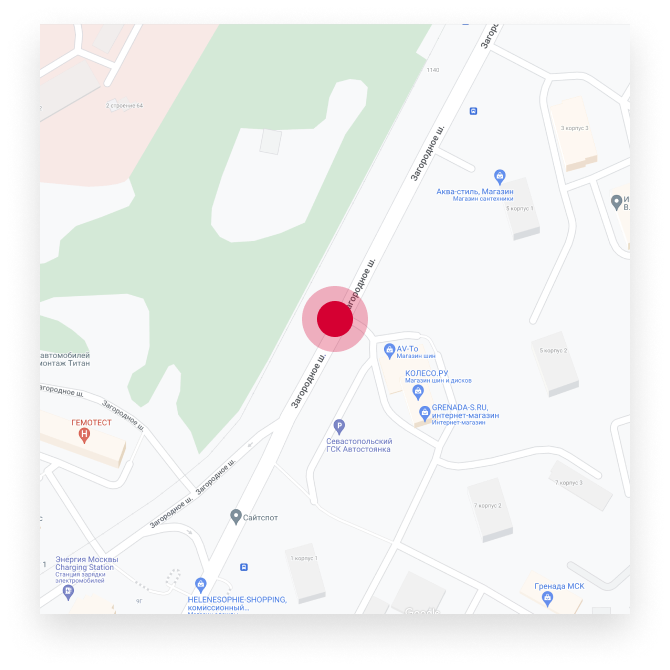
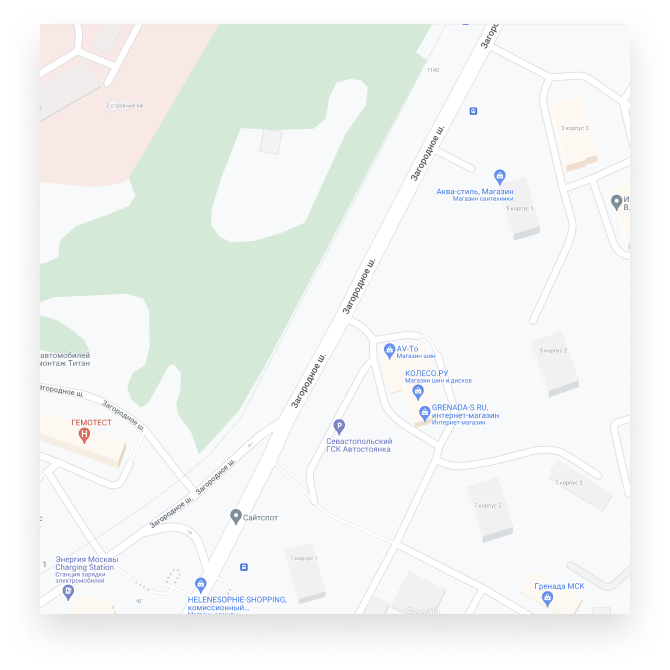
add

Changed region(s): [[0.4478, 0.4179, 0.5672, 0.5373]]

diff --git a/css/main.min.css b/css/main.min.css
@@ -1,1 +1,1 @@
-/*! modern-normalize v1.1.0 | MIT License | https://github.com/sindresorhus/modern-normalize */*,::after,::before{-webkit-box-sizing:border-box;box-sizing:border-box}html{-moz-tab-size:4;-o-tab-size:4;tab-size:4}html{line-height:1.15;-webkit-text-size-adjust:100%}body{margin:0}body{font-family:system-ui,-apple-system,"Segoe UI",Roboto,Helvetica,Arial,sans-serif,"Apple Color Emoji","Segoe UI Emoji"}hr{height:0;color:inherit}abbr[title]{-webkit-text-decoration:underline dotted;text-decoration:underline dotted}b,strong{font-weight:bolder}code,kbd,pre,samp{font-family:ui-monospace,SFMono-Regular,Consolas,"Liberation Mono",Menlo,monospace;font-size:1em}small{font-size:80%}sub,sup{font-size:75%;line-height:0;position:relative;vertical-align:baseline}sub{bottom:-0.25em}sup{top:-0.5em}table{text-indent:0;border-color:inherit}button,input,optgroup,select,textarea{font-family:inherit;font-size:100%;line-height:1.15;margin:0}button,select{text-transform:none}[type=button],[type=reset],[type=submit],button{-webkit-appearance:button}::-moz-focus-inner{border-style:none;padding:0}:-moz-focusring{outline:1px dotted ButtonText}:-moz-ui-invalid{box-shadow:none}legend{padding:0}progress{vertical-align:baseline}::-webkit-inner-spin-button,::-webkit-outer-spin-button{height:auto}[type=search]{-webkit-appearance:textfield;outline-offset:-2px}::-webkit-search-decoration{-webkit-appearance:none}::-webkit-file-upload-button{-webkit-appearance:button;font:inherit}summary{display:list-item}h1,h2,h3,h4,p{margin:0}a{text-decoration:none;color:currentColor}ul{margin:0;padding:0;list-style:none}img{display:block;width:100%;height:auto}:root{--main-font: "Roboto", sans-serif;--title-font: "Kanit", sans-serif;--color-title: rgba(213, 0, 50, 1);--cl-main-text: #202020;--cl-white: #ffffff;--bg-color-btn: #D50032;--bg-color-grey: #F7F7F7;--cl-card: rgba(0, 0, 0, 0.06)}body{font-family:var(--main-font);font-style:normal;font-weight:400;font-size:17px;line-height:1.2352941176}.section{padding:100px 0}.section__title{font-family:var(--title-font);font-size:48px;line-height:1.2916666667;letter-spacing:.04em;text-transform:uppercase;color:var(--cl-main-text)}.container__section--margin{margin-bottom:20px}.container__section--margin-bottom{margin-bottom:64px}.section__text{font-size:22px;line-height:1.3181818182;color:var(--cl-main-text);max-width:850px;margin-bottom:64px}.section--bg{max-width:1400px;margin:0 auto;background-color:var(--bg-color-grey);background-image:url(../img/sell/sell-bg.png);background-position:left calc(50% + 420px) top;background-repeat:no-repeat;background-size:contain}.section--offer-bg{max-width:1400px;margin:0 auto;background-image:url(../img/offer/offer.jpg);background-position:left calc(50% + 462px) top;background-repeat:no-repeat;background-size:contain}.section--form-bg{max-width:1400px;margin:0 auto;background-image:url(../img/form/bg.jpg);background-position:left calc(50% + 462px) top;background-repeat:no-repeat;background-size:contain;padding-bottom:220px}.section-form--padding{margin-bottom:32px}.section__text--padding{margin-bottom:52px}.container{width:1230px;padding:0 15px;margin:0 auto}.header__container{display:-webkit-box;display:-ms-flexbox;display:flex;-webkit-box-align:center;-ms-flex-align:center;align-items:center}.contacts{display:-webkit-box;display:-ms-flexbox;display:flex;-webkit-box-align:center;-ms-flex-align:center;align-items:center;gap:80px;margin-left:auto}.contants__tel{display:-webkit-box;display:-ms-flexbox;display:flex;-webkit-box-align:center;-ms-flex-align:center;align-items:center;gap:10px;font-family:var(--main-font);text-transform:uppercase;color:var(--cl-main-text)}.contants__tel::before{content:"";width:22px;height:22px;background-image:url("../img/icon/tel.svg");background-position:center;background-repeat:no-repeat}.logo{display:inline-block;padding:30px 0;color:var(--cl-main-text);-webkit-transition:color 250ms linear;transition:color 250ms linear}.logo:hover,.logo:focus{color:var(--color-title)}.logo__icon{fill:currentColor}.contacts__btn{font-size:15px;line-height:1.2;letter-spacing:.05em;text-transform:uppercase;color:var(--cl-white);background-color:var(--bg-color-btn);padding:20px 40px;-webkit-box-shadow:0px 16px 40px rgba(179,2,44,.06);box-shadow:0px 16px 40px rgba(179,2,44,.06);border:1px solid var(--bg-color-btn);cursor:pointer;-webkit-transition:color 250ms linear,background-color 250ms linear,border 250ms linear;transition:color 250ms linear,background-color 250ms linear,border 250ms linear}.contacts__btn:hover,.contacts__btn:focus{color:var(--bg-color-btn);background-color:var(--cl-white);border:1px solid var(--bg-color-btn)}.hero--background{max-width:1440px;min-height:540px;margin:0 auto;text-align:center;background-color:var(--cl-main-text);background-image:url("../img/hero/hero.jpg");background-repeat:no-repeat;background-size:cover;background-position:center}.hero{padding-top:36px;padding-bottom:46px}.hero__title{font-family:var(--title-font);font-size:54px;line-height:1.1111111111;letter-spacing:.04em;text-transform:uppercase;color:var(--cl-main-text);margin-bottom:25px}.hero__title--cl-red{font-family:var(--title-font);font-size:44px;line-height:1.3636363636;letter-spacing:.03em;color:var(--color-title)}.hero__text{font-family:var(--title-font);font-size:22px;line-height:1.2272727273;color:var(--cl-main-text);max-width:885px}.event{display:-webkit-box;display:-ms-flexbox;display:flex;-ms-flex-wrap:wrap;flex-wrap:wrap;gap:10px}.event__item{display:-webkit-box;display:-ms-flexbox;display:flex;-webkit-box-orient:vertical;-webkit-box-direction:normal;-ms-flex-direction:column;flex-direction:column;-webkit-box-align:start;-ms-flex-align:start;align-items:flex-start;gap:8px;padding:20px 16px 12px;-webkit-box-shadow:0px 16px 40px var(--cl-card);box-shadow:0px 16px 40px var(--cl-card);-ms-flex-preferred-size:calc((100% - 20px)/3);flex-basis:calc((100% - 20px)/3);width:355px;color:var(--cl-main-text);-webkit-transition:color 250ms linear;transition:color 250ms linear}.event__item:nth-child(-n+3){margin-bottom:40px}.event__item:hover,.event__item:focus{color:var(--color-title)}.event__title{font-weight:700;font-size:24px;line-height:1.2916666667;color:var(--cl-main-text)}.event__text{font-weight:400;font-size:17px;line-height:1.2941176471;color:var(--cl-main-text)}.event__icon{fill:currentColor}.work{display:-webkit-box;display:-ms-flexbox;display:flex;-ms-flex-wrap:wrap;flex-wrap:wrap;gap:10px}.work__item{-ms-flex-preferred-size:calc((100% - 30px)/4);flex-basis:calc((100% - 30px)/4);border:1px solid #f7f7f7;-webkit-box-shadow:0px 16px 40px rgba(0,0,0,.06);box-shadow:0px 16px 40px rgba(0,0,0,.06)}.work__title{font-family:var(--title-font);font-weight:700;font-size:24px;line-height:1.2916666667;text-align:center;padding:16px 12px}.sell{display:-webkit-box;display:-ms-flexbox;display:flex;-ms-flex-wrap:wrap;flex-wrap:wrap;gap:20px;max-width:900px}.sell__item{-ms-flex-preferred-size:calc((100% - 40px)/3);flex-basis:calc((100% - 40px)/3);max-width:285px;min-height:200px;background-color:#fff;-webkit-box-shadow:0px 16px 40px rgba(0,0,0,.06);box-shadow:0px 16px 40px rgba(0,0,0,.06)}.sell__item:hover,.sell__item:focus{background-color:#d50032;color:#fff;font-weight:700}.sell__text{font-size:24px;line-height:1.2916666667;text-align:center;padding:69px 16px}.offer{max-width:600px}.offer__title{font-family:var(--title-font);font-weight:700;font-size:24px;line-height:1.2916666667;color:var(--cl-main-text);margin-bottom:8px}.offer__text{font-size:17px;line-height:1.2941176471;color:var(--cl-main-text)}.offer__item{border-bottom:1px solid var(--cl-main-text);padding-top:28px;padding-bottom:28px}.offer__item:first-child{padding-top:0;padding-bottom:28px}.offer__item:last-child{border-bottom:none;padding-top:28px;padding-bottom:0}.form{display:-webkit-box;display:-ms-flexbox;display:flex;-webkit-box-orient:vertical;-webkit-box-direction:normal;-ms-flex-direction:column;flex-direction:column;gap:32px;max-width:387px}.form__btn{font-weight:700;font-size:15px;line-height:1.2;letter-spacing:.05em;text-transform:uppercase;padding:24px 40px;color:#fff;background-color:#d50032;border:none;-webkit-box-shadow:0px 16px 40px rgba(179,2,44,.06);box-shadow:0px 16px 40px rgba(179,2,44,.06)}/*# sourceMappingURL=main.min.css.map */
+/*! modern-normalize v1.1.0 | MIT License | https://github.com/sindresorhus/modern-normalize */*,::after,::before{-webkit-box-sizing:border-box;box-sizing:border-box}html{-moz-tab-size:4;-o-tab-size:4;tab-size:4}html{line-height:1.15;-webkit-text-size-adjust:100%}body{margin:0}body{font-family:system-ui,-apple-system,"Segoe UI",Roboto,Helvetica,Arial,sans-serif,"Apple Color Emoji","Segoe UI Emoji"}hr{height:0;color:inherit}abbr[title]{-webkit-text-decoration:underline dotted;text-decoration:underline dotted}b,strong{font-weight:bolder}code,kbd,pre,samp{font-family:ui-monospace,SFMono-Regular,Consolas,"Liberation Mono",Menlo,monospace;font-size:1em}small{font-size:80%}sub,sup{font-size:75%;line-height:0;position:relative;vertical-align:baseline}sub{bottom:-0.25em}sup{top:-0.5em}table{text-indent:0;border-color:inherit}button,input,optgroup,select,textarea{font-family:inherit;font-size:100%;line-height:1.15;margin:0}button,select{text-transform:none}[type=button],[type=reset],[type=submit],button{-webkit-appearance:button}::-moz-focus-inner{border-style:none;padding:0}:-moz-focusring{outline:1px dotted ButtonText}:-moz-ui-invalid{box-shadow:none}legend{padding:0}progress{vertical-align:baseline}::-webkit-inner-spin-button,::-webkit-outer-spin-button{height:auto}[type=search]{-webkit-appearance:textfield;outline-offset:-2px}::-webkit-search-decoration{-webkit-appearance:none}::-webkit-file-upload-button{-webkit-appearance:button;font:inherit}summary{display:list-item}h1,h2,h3,h4,p{margin:0}a{text-decoration:none;color:currentColor}ul{margin:0;padding:0;list-style:none}img{display:block;width:100%;height:auto}:root{--main-font: "Roboto", sans-serif;--title-font: "Kanit", sans-serif;--color-title: rgba(213, 0, 50, 1);--cl-main-text: #202020;--cl-white: #ffffff;--cl-form: #939393;--cl-politic: #676767;--bg-color-btn: #D50032;--bg-color-grey: #F7F7F7;--cl-card: rgba(0, 0, 0, 0.06)}body{font-family:var(--main-font);font-style:normal;font-weight:400;font-size:17px;line-height:1.2352941176}.section{padding:100px 0}.section__title{font-family:var(--title-font);font-size:48px;line-height:1.2916666667;letter-spacing:.04em;text-transform:uppercase;color:var(--cl-main-text)}.container__section--margin{margin-bottom:20px}.container__section--margin-bottom{margin-bottom:64px}.section__text{font-size:22px;line-height:1.3181818182;color:var(--cl-main-text);max-width:850px;margin-bottom:64px}.section--bg{max-width:1400px;margin:0 auto;background-color:var(--bg-color-grey);background-image:url(../img/sell/sell-bg.png);background-position:left calc(50% + 420px) top;background-repeat:no-repeat;background-size:contain}.section--offer-bg{max-width:1400px;margin:0 auto;background-image:url(../img/offer/offer.jpg);background-position:left calc(50% + 462px) top;background-repeat:no-repeat;background-size:contain}.section--form-bg{position:relative;max-width:1400px;margin:0 auto;background-image:url(../img/form/bg.jpg);background-position:left calc(50% + 470px) top;background-repeat:no-repeat;background-size:contain;padding-bottom:220px}.section-form--padding{margin-bottom:32px}.section__text--padding{margin-bottom:52px}.container{width:1230px;padding:0 15px;margin:0 auto}.hidden{position:absolute;width:1px;height:1px;margin:-1px;border:0;padding:0;white-space:nowrap;-webkit-clip-path:inset(100%);clip-path:inset(100%);clip:rect(0 0 0 0);overflow:hidden}.header__container{display:-webkit-box;display:-ms-flexbox;display:flex;-webkit-box-align:center;-ms-flex-align:center;align-items:center}.contacts{display:-webkit-box;display:-ms-flexbox;display:flex;-webkit-box-align:center;-ms-flex-align:center;align-items:center;gap:80px;margin-left:auto}.contants__tel{display:-webkit-box;display:-ms-flexbox;display:flex;-webkit-box-align:center;-ms-flex-align:center;align-items:center;gap:10px;font-family:var(--main-font);text-transform:uppercase;color:var(--cl-main-text)}.contants__tel::before{content:"";width:22px;height:22px;background-image:url("../img/icon/tel.svg");background-position:center;background-repeat:no-repeat}.logo{display:inline-block;padding:30px 0;color:var(--cl-main-text);-webkit-transition:color 250ms linear;transition:color 250ms linear}.logo:hover,.logo:focus{color:var(--color-title)}.logo__icon{fill:currentColor}.contacts__btn{font-size:15px;line-height:1.2;letter-spacing:.05em;text-transform:uppercase;color:var(--cl-white);background-color:var(--bg-color-btn);padding:20px 40px;-webkit-box-shadow:0px 16px 40px rgba(179,2,44,.06);box-shadow:0px 16px 40px rgba(179,2,44,.06);border:1px solid var(--bg-color-btn);cursor:pointer;-webkit-transition:color 250ms linear,background-color 250ms linear,border 250ms linear;transition:color 250ms linear,background-color 250ms linear,border 250ms linear}.contacts__btn:hover,.contacts__btn:focus{color:var(--bg-color-btn);background-color:var(--cl-white);border:1px solid var(--bg-color-btn)}.hero--background{max-width:1440px;min-height:540px;margin:0 auto;text-align:center;background-color:var(--cl-main-text);background-image:url("../img/hero/hero.jpg");background-repeat:no-repeat;background-size:cover;background-position:center}.hero{padding-top:36px;padding-bottom:46px}.hero__title{font-family:var(--title-font);font-size:54px;line-height:1.1111111111;letter-spacing:.04em;text-transform:uppercase;color:var(--cl-main-text);margin-bottom:25px}.hero__title--cl-red{font-family:var(--title-font);font-size:44px;line-height:1.3636363636;letter-spacing:.03em;color:var(--color-title)}.hero__text{font-family:var(--title-font);font-size:22px;line-height:1.2272727273;color:var(--cl-main-text);max-width:885px}.event{display:-webkit-box;display:-ms-flexbox;display:flex;-ms-flex-wrap:wrap;flex-wrap:wrap;gap:10px}.event__item{display:-webkit-box;display:-ms-flexbox;display:flex;-webkit-box-orient:vertical;-webkit-box-direction:normal;-ms-flex-direction:column;flex-direction:column;-webkit-box-align:start;-ms-flex-align:start;align-items:flex-start;gap:8px;padding:20px 16px 12px;-webkit-box-shadow:0px 16px 40px var(--cl-card);box-shadow:0px 16px 40px var(--cl-card);-ms-flex-preferred-size:calc((100% - 20px)/3);flex-basis:calc((100% - 20px)/3);width:355px;color:var(--cl-main-text);-webkit-transition:color 250ms linear;transition:color 250ms linear}.event__item:nth-child(-n+3){margin-bottom:40px}.event__item:hover,.event__item:focus{color:var(--color-title)}.event__title{font-weight:700;font-size:24px;line-height:1.2916666667;color:var(--cl-main-text)}.event__text{font-weight:400;font-size:17px;line-height:1.2941176471;color:var(--cl-main-text)}.event__icon{fill:currentColor}.work{display:-webkit-box;display:-ms-flexbox;display:flex;-ms-flex-wrap:wrap;flex-wrap:wrap;gap:10px}.work__item{-ms-flex-preferred-size:calc((100% - 30px)/4);flex-basis:calc((100% - 30px)/4);border:1px solid #f7f7f7;-webkit-box-shadow:0px 16px 40px rgba(0,0,0,.06);box-shadow:0px 16px 40px rgba(0,0,0,.06)}.work__title{font-family:var(--title-font);font-weight:700;font-size:24px;line-height:1.2916666667;text-align:center;padding:16px 12px}.sell{display:-webkit-box;display:-ms-flexbox;display:flex;-ms-flex-wrap:wrap;flex-wrap:wrap;gap:20px;max-width:900px}.sell__item{-ms-flex-preferred-size:calc((100% - 40px)/3);flex-basis:calc((100% - 40px)/3);max-width:285px;min-height:200px;background-color:#fff;-webkit-box-shadow:0px 16px 40px rgba(0,0,0,.06);box-shadow:0px 16px 40px rgba(0,0,0,.06)}.sell__item:hover,.sell__item:focus{background-color:#d50032;color:#fff;font-weight:700}.sell__text{font-size:24px;line-height:1.2916666667;text-align:center;padding:69px 16px}.offer{max-width:600px}.offer__title{font-family:var(--title-font);font-weight:700;font-size:24px;line-height:1.2916666667;color:var(--cl-main-text);margin-bottom:8px}.offer__text{font-size:17px;line-height:1.2941176471;color:var(--cl-main-text)}.offer__item{border-bottom:1px solid var(--cl-main-text);padding-top:28px;padding-bottom:28px}.offer__item:first-child{padding-top:0;padding-bottom:28px}.offer__item:last-child{border-bottom:none;padding-top:28px;padding-bottom:0}.form{display:-webkit-box;display:-ms-flexbox;display:flex;-webkit-box-orient:vertical;-webkit-box-direction:normal;-ms-flex-direction:column;flex-direction:column;gap:32px;max-width:387px;position:relative}.form__btn{font-weight:700;font-size:15px;line-height:1.2;letter-spacing:.05em;text-transform:uppercase;padding:24px 40px;color:#fff;background-color:#d50032;border:none;-webkit-box-shadow:0px 16px 40px rgba(179,2,44,.06);box-shadow:0px 16px 40px rgba(179,2,44,.06)}.form-label__input{display:block;width:100%;outline:none;border:0;border-bottom:1px solid #d9d9d9;background-color:rgba(0,0,0,0);padding-bottom:12px}.form-label__input::-webkit-input-placeholder{font-size:20px;line-height:1.3;letter-spacing:.04em;color:var(--cl-form)}.form-label__input::-moz-placeholder{font-size:20px;line-height:1.3;letter-spacing:.04em;color:var(--cl-form)}.form-label__input:-ms-input-placeholder{font-size:20px;line-height:1.3;letter-spacing:.04em;color:var(--cl-form)}.form-label__input::-ms-input-placeholder{font-size:20px;line-height:1.3;letter-spacing:.04em;color:var(--cl-form)}.form-label__input::placeholder{font-size:20px;line-height:1.3;letter-spacing:.04em;color:var(--cl-form)}.politic-wrap{display:-webkit-box;display:-ms-flexbox;display:flex;-webkit-box-align:start;-ms-flex-align:start;align-items:flex-start;gap:12px}.politic-wrap__icon{display:block;min-width:18px;min-height:18px;background-image:url("../img/icon/icon-form.svg");background-size:contain;background-position:center;background-repeat:no-repeat}.politic-wrap__input:checked+.politic-wrap__icon{background-image:url(../img/icon/icon-checked.svg);background-repeat:no-repeat;background-size:contain}.politic-wrap__text{font-size:14px;line-height:1.2857142857;letter-spacing:.04em;color:var(--cl-politic)}.politic-wrap__link{text-decoration:underline}.map-wrap{position:absolute;top:185px;right:121px;max-width:590px;max-height:590px}.map-wrap__position{position:absolute;top:50%;left:50px}/*# sourceMappingURL=main.min.css.map */

diff --git a/css/main.css b/css/main.css
@@ -167,6 +167,8 @@ img {
   --color-title: rgba(213, 0, 50, 1);
   --cl-main-text: #202020;
   --cl-white: #ffffff;
+  --cl-form: #939393;
+  --cl-politic: #676767;
   --bg-color-btn: #D50032;
   --bg-color-grey: #F7F7F7;
   --cl-card: rgba(0, 0, 0, 0.06);
@@ -229,10 +231,11 @@ body {
 }
 
 .section--form-bg {
+  position: relative;
   max-width: 1400px;
   margin: 0 auto;
   background-image: url(../img/form/bg.jpg);
-  background-position: left calc(50% + 462px) top;
+  background-position: left calc(50% + 470px) top;
   background-repeat: no-repeat;
   background-size: contain;
   padding-bottom: 220px;
@@ -250,6 +253,20 @@ body {
   width: 1230px;
   padding: 0 15px;
   margin: 0 auto;
+}
+
+.hidden {
+  position: absolute;
+  width: 1px;
+  height: 1px;
+  margin: -1px;
+  border: 0;
+  padding: 0;
+  white-space: nowrap;
+  -webkit-clip-path: inset(100%);
+  clip-path: inset(100%);
+  clip: rect(0 0 0 0);
+  overflow: hidden;
 }
 
 .header__container {
@@ -522,6 +539,7 @@ body {
           flex-direction: column;
   gap: 32px;
   max-width: 387px;
+  position: relative;
 }
 .form__btn {
   font-weight: 700;
@@ -535,4 +553,95 @@ body {
   border: none;
   -webkit-box-shadow: 0px 16px 40px rgba(179, 2, 44, 0.06);
           box-shadow: 0px 16px 40px rgba(179, 2, 44, 0.06);
+}
+
+.form-label__input {
+  display: block;
+  width: 100%;
+  outline: none;
+  border: 0;
+  border-bottom: 1px solid #D9D9D9;
+  background-color: transparent;
+  padding-bottom: 12px;
+}
+.form-label__input::-webkit-input-placeholder {
+  font-size: 20px;
+  line-height: 1.3;
+  letter-spacing: 0.04em;
+  color: var(--cl-form);
+}
+.form-label__input::-moz-placeholder {
+  font-size: 20px;
+  line-height: 1.3;
+  letter-spacing: 0.04em;
+  color: var(--cl-form);
+}
+.form-label__input:-ms-input-placeholder {
+  font-size: 20px;
+  line-height: 1.3;
+  letter-spacing: 0.04em;
+  color: var(--cl-form);
+}
+.form-label__input::-ms-input-placeholder {
+  font-size: 20px;
+  line-height: 1.3;
+  letter-spacing: 0.04em;
+  color: var(--cl-form);
+}
+.form-label__input::placeholder {
+  font-size: 20px;
+  line-height: 1.3;
+  letter-spacing: 0.04em;
+  color: var(--cl-form);
+}
+
+.politic-wrap {
+  display: -webkit-box;
+  display: -ms-flexbox;
+  display: flex;
+  -webkit-box-align: start;
+      -ms-flex-align: start;
+          align-items: flex-start;
+  gap: 12px;
+}
+
+.politic-wrap__icon {
+  display: block;
+  min-width: 18px;
+  min-height: 18px;
+  background-image: url("../img/icon/icon-form.svg");
+  background-size: contain;
+  background-position: center;
+  background-repeat: no-repeat;
+}
+
+.politic-wrap__input:checked + .politic-wrap__icon {
+  background-image: url(../img/icon/icon-checked.svg);
+  background-repeat: no-repeat;
+  background-size: contain;
+}
+
+.politic-wrap__text {
+  font-size: 14px;
+  line-height: 1.2857142857;
+  letter-spacing: 0.04em;
+  color: var(--cl-politic);
+}
+
+.politic-wrap__link {
+  text-decoration: underline;
+}
+
+.map-wrap {
+  position: absolute;
+  top: 185px;
+  right: 121px;
+  max-width: 590px;
+  max-height: 590px;
+}
+
+.map-wrap__position {
+  position: absolute;
+  top: 50%;
+  left: 50px;
 }/*# sourceMappingURL=main.css.map */

diff --git a/index.html b/index.html
@@ -301,27 +301,24 @@
                 class="form-label__input"
                 type="text"
                 name="name"
-                placeholder=" "
+                placeholder="Имя*"
               />
-              <span class="form-label__span">name*</span>
-            </label>
-            <label class="form-label">
-              <input
-                class="form-label__input"
-                type="text"
-                name="name"
-                placeholder=" "
-              />
-              <span class="form-label__span">name*</span>
             </label>
             <label class="form-label">
               <input
                 class="form-label__input"
                 type="tel"
                 name="tel"
-                placeholder=" "
+                placeholder="Телефон*"
               />
-              <span class="form-label__span">phone*</span>
+            </label>
+            <label class="form-label">
+              <input
+                class="form-label__input"
+                type="email"
+                name="email"
+                placeholder="Электронная почта"
+              />
             </label>
 
             <label class="politic-wrap">
@@ -346,6 +343,10 @@
 
             <button class="form__btn" type="submit">отправить</button>
           </form>
+          <div class="map-wrap">
+            <img src="../img/form/map.png" alt="map" class="map-wrap__img" />
+            <div class="map-wrap__position"></div>
+          </div>
         </div>
       </section>
     </main>

diff --git a/sass/layout/_form.scss b/sass/layout/_form.scss
@@ -5,6 +5,8 @@
 
     max-width: 387px;
 
+    position: relative;
+
     &__btn{
         font-weight: 700;
         font-size: 15px;
@@ -20,4 +22,73 @@
         border: none;
         box-shadow: 0px 16px 40px rgba(179, 2, 44, 0.06);
     }
+}
+
+.form-label__input{
+    display: block;
+    width: 100%;
+    outline: none;
+    border: 0;
+    border-bottom: 1px solid #D9D9D9;
+    background-color: transparent;
+    padding-bottom: 12px;
+
+
+    &::placeholder{
+        font-size: 20px;
+        line-height: calc(26 / 20);
+        letter-spacing: 0.04em;
+        
+        color: var(--cl-form);
+    }
+}
+
+.politic-wrap{
+    display: flex;
+    align-items: flex-start;
+    gap: 12px;
+}
+
+.politic-wrap__icon{
+    display: block;
+    min-width: 18px;
+    min-height: 18px;
+
+    background-image: url('../img/icon/icon-form.svg');
+    background-size: contain;
+    background-position: center;
+    background-repeat: no-repeat;
+}
+
+.politic-wrap__input:checked + .politic-wrap__icon {
+    background-image: url(../img/icon/icon-checked.svg);
+    background-repeat: no-repeat;
+    background-size: contain;
+}
+
+.politic-wrap__text{
+    font-size: 14px;
+    line-height: calc(18 / 14);
+    letter-spacing: 0.04em;
+    
+    color: var(--cl-politic);
+}
+
+.politic-wrap__link{
+    text-decoration: underline;
+}
+
+.map-wrap{
+    position: absolute;
+    top: 185px;
+    right: 121px;
+
+    max-width: 590px;
+    max-height: 590px;
+}
+
+.map-wrap__position{
+    position: absolute;
+    top: 50%;
+    left: 50px;
 }

diff --git a/sass/base/_base.scss b/sass/base/_base.scss
@@ -59,10 +59,12 @@ body {
 }
 
 .section--form-bg {
+    position: relative;
+
     max-width: 1400px;
     margin: 0 auto;
     background-image: url(../img/form/bg.jpg);
-    background-position: left calc(50% + 462px) top;
+    background-position: left calc(50% + 470px) top;
     background-repeat: no-repeat;
     background-size: contain;
     padding-bottom: 220px;

diff --git a/sass/utils/_hidden.scss b/sass/utils/_hidden.scss
@@ -1,0 +1,13 @@
+.hidden {
+    position: absolute;
+    width: 1px;
+    height: 1px;
+    margin: -1px;
+    border: 0;
+    padding: 0;
+    white-space: nowrap;
+    -webkit-clip-path: inset(100%);
+    clip-path: inset(100%);
+    clip: rect(0 0 0 0);
+    overflow: hidden;
+}

diff --git a/sass/utils/_variables.scss b/sass/utils/_variables.scss
@@ -6,6 +6,8 @@
     --color-title: rgba(213, 0, 50, 1);
     --cl-main-text: #202020;
     --cl-white: #ffffff;
+    --cl-form: #939393;
+    --cl-politic: #676767;
     // BG-Color
     --bg-color-btn: #D50032;
     --bg-color-grey: #F7F7F7;

diff --git a/sass/main.scss b/sass/main.scss
@@ -6,6 +6,7 @@
 @import './utils/variables';
 @import './base/base';
 @import './base/container';
+@import './utils/hidden';
 
 // Header
 @import './layout/header';
